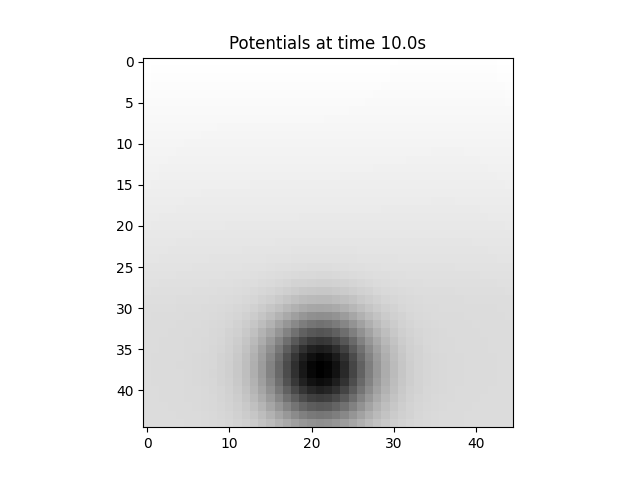
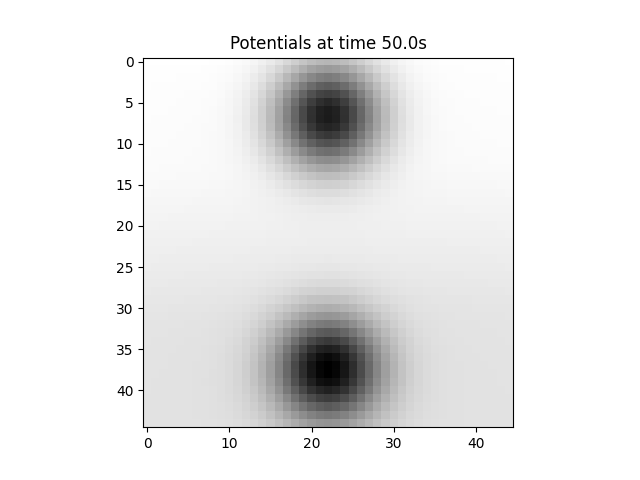
Small changes.

Changed region(s): [[0.3438, 0.0625, 0.6562, 0.4062], [0.4062, 0.6875, 0.4688, 0.8125]]

diff --git a/main.py b/main.py
@@ -6,12 +6,12 @@ from baseDNF import gaussian, euclidean_dist, logistic_sigmoid
 from neuron import CUBA_LIF
 
 ####################################
-QUESTION = 1
+QUESTION = 2
 ####################################
 
 # ACTIVITIES
-_P1 = (0.3, 0.3)
-_P2 = (0.7, 0.7)
+_P1 = (0.15, 0.5)
+_P2 = (0.85, 0.5)
 
 if QUESTION == 1:
     # DNF
@@ -26,10 +26,12 @@ if QUESTION == 1:
     _GAMMA = 4.5
     _H = 0.05
 
+    _T = np.inf # Period of the circular motion. For static actitivties -> np.inf
+
     # SIMU
     _DT = 1e-2
     _TAU = 0.1*_DT
-    _N = 1000
+    _N = 5000
 
 if QUESTION == 2:
     # DNF
@@ -43,6 +45,8 @@ if QUESTION == 2:
     _SIGMA_SPIKE = 0.06
     _GAMMA = 4.5
     _H = 0.05
+
+    _T = np.inf
 
     # SIMU
     _DT = 5e-4
@@ -327,7 +331,7 @@ if __name__ == "__main__":
 
     if QUESTION == 1:
         activity = gaussian_activity([_P1, _P2], _HEIGHT, _SIGMA)
-        plot_gaussian_activity(activity, "Activity")
+        plot_gaussian_activity(activity, "Activity", "figures/activities.png")
 
         dnf = DNF(
             input_map=activity,
@@ -345,7 +349,7 @@ if __name__ == "__main__":
 
         plot_gaussian_activity(dnf.kernel, "Kernel", f"figures/kernel.png")
 
-        update_act = update_activities(2, 0.7, _HEIGHT, _SIGMA)
+        update_act = update_activities(_T, 0.7, _HEIGHT, _SIGMA, N=2)
         dnf.update_map_N(_N, update_activities=update_act)
 
         plot_gaussian_activity(dnf.potentials, f"Potentials at time {_N*_DT}s", "figures/potential.png")
@@ -374,6 +378,6 @@ if __name__ == "__main__":
             dt=_DT,
         )
 
-        update_act = update_activities(5e-1, 0.7, _HEIGHT, _SIGMA_SPIKE, N=1)
+        update_act = update_activities(_T, 0.7, _HEIGHT, _SIGMA_SPIKE, N=2)
         spiking_dnf.update_map_N(_N, update_activities=update_act)
         plot_gaussian_activity(spiking_dnf.potentials, f"Potentials at time {_N*_DT}s", "figures/spiking_dnf_potential.png")
